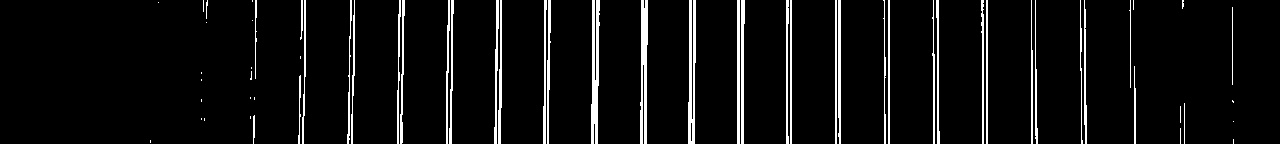
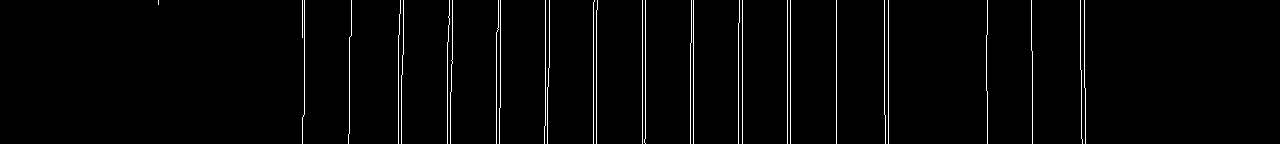
Messing up in greyscale conversion for some reason.

diff --git a/sandbox.py b/sandbox.py
@@ -16,9 +16,9 @@ if __name__ == '__main__':
 	#cv2.imwrite("./slides_img1_rect.jpg", img1_rect)
 	img2_rect = preprocess.rectify_other(img2, homography)
 	#cv2.imwrite("./slides_img2_rect.jpg", img2_rect)
-	thresh, img1_binary = cv2.threshold(img1_rect, 128, 255, cv2.THRESH_BINARY | cv2.THRESH_OTSU)
-	canny = cv2.Canny(img1_binary,100,200)
-	#cv2.imwrite("./sandbox_canny.jpg", canny)
+	#thresh, img1_binary = cv2.threshold(img1_rect, 128, 255, cv2.THRESH_BINARY | cv2.THRESH_OTSU)
+	canny = cv2.Canny(img1_rect,100,200)
+	#cv2.imwrite("./sandbox_canny2.jpg", canny)
 
 	sobel = preprocess.sobel(img1_binary)
 	thresh, img1_sobel = cv2.threshold(sobel, 128, 255, cv2.THRESH_BINARY | cv2.THRESH_OTSU)
@@ -33,3 +33,8 @@ if __name__ == '__main__':
 	diff = cv2.subtract(crop1, crop2)
 	cv2.imwrite("./slides_diff1.jpg", diff)
 	'''
+
+	''' # to try canny instead of sobel in code
+	canny = cv2.Canny(img_grey,100,200)
+    cv2.imwrite("./preprocess_canny.jpg", canny)
+    '''

diff --git a/preprocess.py b/preprocess.py
@@ -69,6 +69,9 @@ def getBinaryImages(base_img):
     img_sobel = sobel(base_img)
     thresh, img_binary_sobel = cv2.threshold(img_sobel, 128, 255, cv2.THRESH_BINARY | cv2.THRESH_OTSU)
     return img_binary_sobel, img_binary
+    
+
+    return canny, img_binary
 
 
 #adapted from https://github.com/abidrahmank/OpenCV2-Python/blob/master/Official_Tutorial_Python_Codes/3_imgproc/sobel.py
